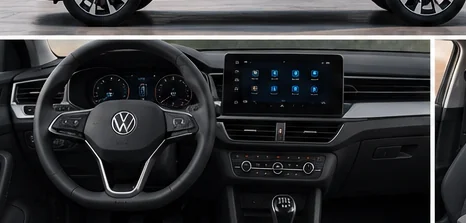
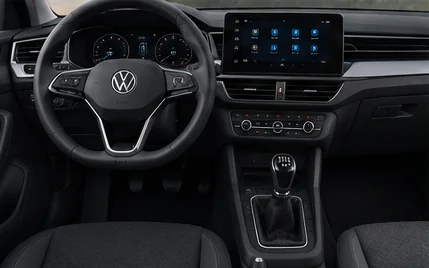
Taigo: las once fotos buenas del Drive, portada incluida
Corrige el commit anterior (96b042d), que subio recortes equivocados.

Que paso: la hoja M AUTOMOCION/AYVENS/TAIGO/FOTOS TAIGO.png se sustituyo en el
Drive a las 09:40, nueve minutos despues de la version que se midio. La de las
09:31 era un Taigo R-Line con diez celdas; la de las 09:40 es un Taigo normal
con once fotos y otra maqueta. Se corto la nueva con las medidas de la vieja y
salieron fotos con tiras de las vecinas. No llegaron a verse en la web: aun no
habia filas en vehicle_images que las usaran.

Ahora, sobre la hoja actual (se comprueba su hash antes de cortar):

- 01 portada: el 3/4 delantero de la hoja, 881x661. Sustituye a la foto de
  prensa que se puso el 10/09, que era un apano mientras el Drive solo tenia
  el T-Cross; asi el Taigo sale como el resto del catalogo, con su hoja y la
  matricula MoviLease. Se rellena a 4:3 con la propia foto en espejo y
  difuminada: con un color plano, la mediana canal a canal de una fila que
  mezcla pilar gris y cielo azul daba una banda verde menta.
- 02 a 11 galeria: trasera tres cuartos, lateral, frontal, trasera, llanta,
  puesto de conduccion, asientos delanteros, plazas traseras, palanca de
  cambios y maletero. Conservan su proporcion, como las demas galerias.

En la fila del medio el lateral, el frontal y la trasera van pegados, sin calle
blanca. Las costuras se localizaron por el salto de color entre columnas que
atraviesa toda la franja (x=543 y x=913) y se comprobaron a ojo con zoom.
[…]

diff --git a/scripts/trocear_hoja_fotos.py b/scripts/trocear_hoja_fotos.py
@@ -81,11 +81,12 @@ HOJAS = {
     "toyota-yaris-cross": r"M AUTOMOCION\ARVAL\TOYOTA YARIS CROSS\FOTOS TOYOTA YARIS CROSS.png",
     "vw-polo": r"M AUTOMOCION\AYVENS\POLO\FOTOS POLO.png",
     "vw-t-roc": r"M AUTOMOCION\VOLKSWAGEN FINANCE\T ROC\GRIS LOBO\FOTOS T-ROC GRIS.png",
-    # vw-taigo NO va en este mapa, a proposito. La hoja que habia aqui
-    # (VOLKSWAGEN FINANCE) era un T-Cross con el rotulo TAIGO pegado. La buena,
-    # subida el 14/09/2026 a M AUTOMOCION/AYVENS/TAIGO, es un mosaico de diez
-    # celdas que esta plantilla no reconoce, asi que se corto a mano. Y si
-    # --todas regenerara vw-taigo-01 machacaria la portada, que se eligio a mano.
+    # vw-taigo NO va en este mapa, a proposito. La hoja que habia antes en
+    # VOLKSWAGEN FINANCE era un T-Cross con el rotulo TAIGO pegado. La buena
+    # esta en M AUTOMOCION/AYVENS/TAIGO y trae once fotos, pero en la fila del
+    # medio el lateral, el frontal y la trasera van pegados sin calle blanca,
+    # y esta plantilla no sabe separarlos: se cortaron a mano, con las
+    # costuras en x=543 y x=913 de una hoja de 1536x1024.
     "vw-tiguan": r"M AUTOMOCION\TIGUAN\FOTOS TIGUAN.png",
 }
 
